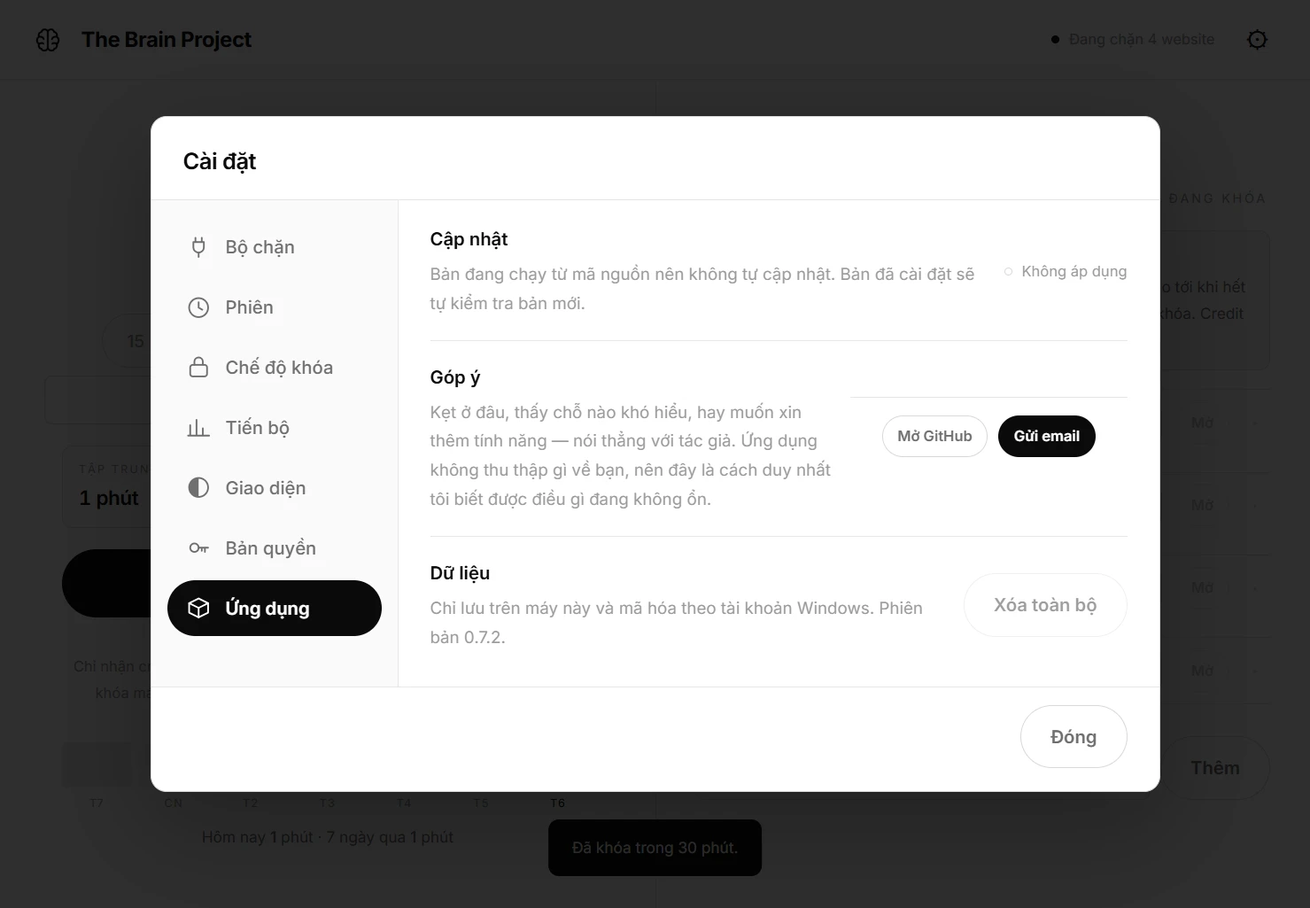
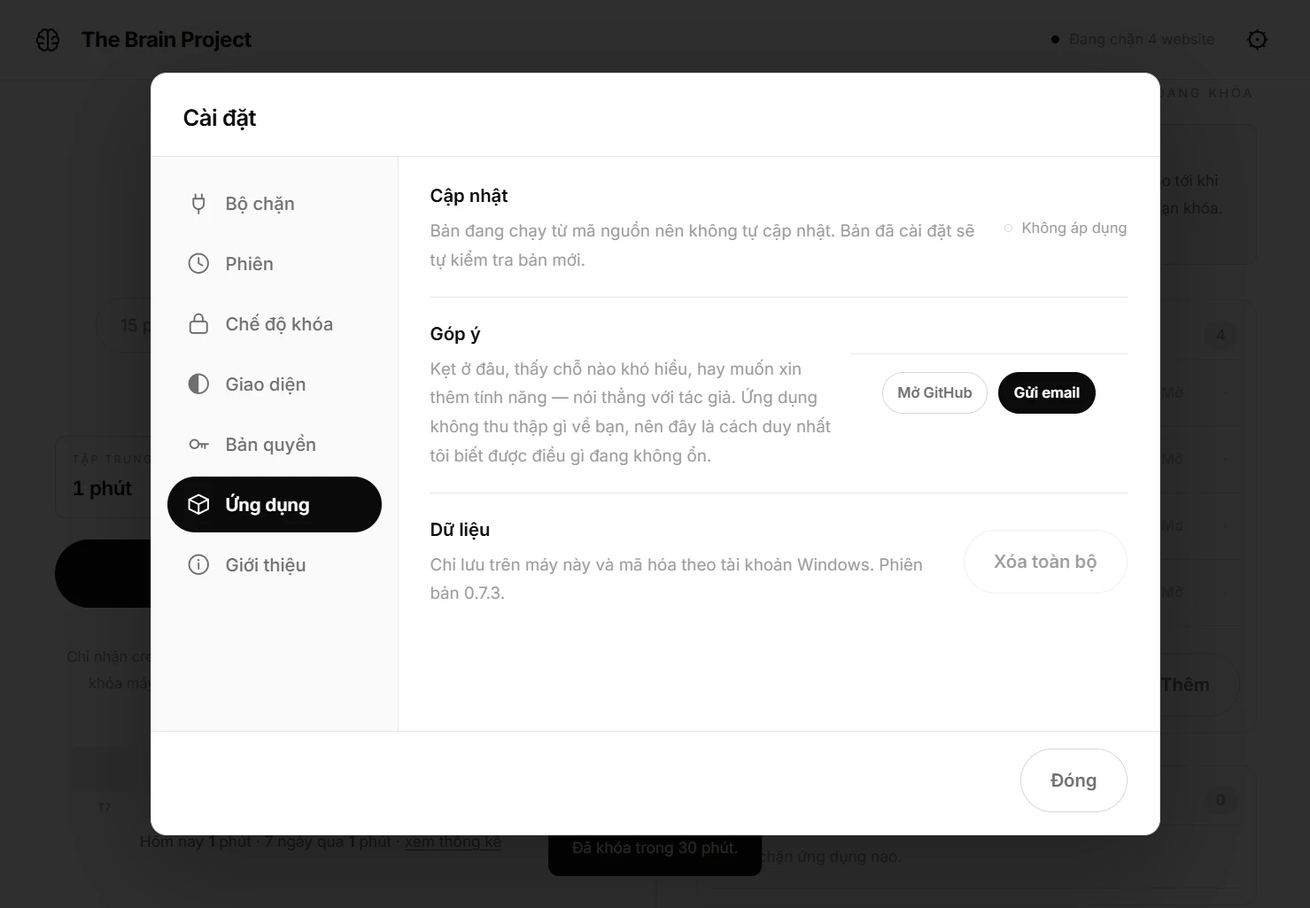
Sáu thay đổi giao diện và một sửa lỗi thật khi thêm website
Dán link đầy đủ vào ô chặn trước đây BÁO LỖI. targetAdd chỉ bóc "https://",
"www." và dấu gạch cuối, nên "github.com/ai-do/repo" không qua được biểu
thức kiểm tra và người dùng nhận thông báo "không nhập đường dẫn" — trong
khi dán link thật mới là điều người ta làm nhiều nhất. Thêm hostOf(): bóc
cả giao thức, user:pass@, cổng, đường dẫn, tham số và neo. Giữ nguyên tên
miền con vì cắt "m." thành "facebook.com" là đoán ý, mà đoán sai thì chặn
nhầm một trang khác — và tiện ích vốn đã chặn cả tên miền con.

Cài đặt giữ nguyên kích thước khi chuyển tab: trước dùng max-height nên
mỗi tab một chiều cao, cửa sổ nhảy mỗi lần bấm. Nay khoá height, đã đo
qua cả bảy tab đều 574x760.

Thống kê tách hẳn khỏi Cài đặt thành cửa sổ riêng, mở bằng cách bấm vào
dải bảy ngày trên màn hình chính — nó là thứ người ta xem thường xuyên,
không phải thứ chỉnh một lần rồi thôi. Có thêm sáu ô tổng hợp và bảng 30
ngày thay vì 14.

Ô nhập số phút bỏ hẳn nút tăng giảm mặc định của Windows và thu về dáng
viên thuốc như các chip cạnh nó.

Cột phải tách thành hai nhóm có khung và có đếm số: Website, và Ứng dụng
và game. Trước đây chặn ứng dụng chỉ là một dòng chữ gạch chân ở đáy cột,
trong khi đó là hai loại khác hẳn nhau — website do tiện ích chặn và sống
sót khi app tắt, ứng dụng thì cần app đang chạy.

Thêm tab Giới thiệu: bản đang chạy, tóm tắt quyền riêng tư, và Có gì mới.
src/ui/changelog.js sinh từ CHANGELOG.md, và tests/changelog.test.cjs đọc
[…]

diff --git a/src/ui/app.js b/src/ui/app.js
@@ -40,6 +40,10 @@ function ruleStrip(m){
 
 function readyView(){
   const idleMinutes=state.idleSeconds/60;
+  // Website và ứng dụng là hai loại khác nhau: một cái do tiện ích chặn và sống
+  // sót khi app tắt, một cái cần app đang chạy. Trộn chung một danh sách thì
+  // người dùng không thấy được ranh giới đó.
+  const sites=state.targets.filter(t=>t.domain), apps=state.targets.filter(t=>t.exe);
   return `<section class="pane left">
     ${state.system.extensionConnected?'':`<div class="warn"><b>Chưa chặn được website nào.</b> Tiện ích trình duyệt chưa kết nối, nên danh sách bên cạnh chưa có hiệu lực.<br>Nếu bạn vừa mở lại ứng dụng thì chỉ cần đợi vài giây — tiện ích tự kết nối lại, <b>không phải ghép nối lại</b>. Mã ghép nối không đổi. <button class="link" id="warn-setup">Kiểm tra kết nối</button></div>`}
     <div class="stack"><div class="label">Số dư</div><div class="figure">${num(state.credits)}</div><div class="unit">credit</div></div>
@@ -54,20 +58,30 @@ function readyView(){
     ${ruleStrip(minutes)}
     <button class="primary big" data-action="start">Bắt đầu tập trung<b id="start-label">${minutes} phút</b></button>
     <p class="note">Chỉ nhận credit khi hoàn tất trọn phiên. Dừng giữa chừng, đóng ứng dụng, khóa máy hoặc rời máy quá ${idleMinutes} phút thì mất toàn bộ credit của phiên.</p>`}
-    <div class="week">
+    <button class="week" id="open-stats" aria-label="Xem thống kê đầy đủ">
       <div class="week-bars">${(()=>{const days=lastDays(7),peak=Math.max(25,...days.map(d=>d.minutes));
         return days.map(d=>`<div class="week-day ${d.today?'now':''}" title="${d.day}: ${d.minutes} phút">
           <div class="week-track"><i style="height:${d.minutes?Math.max(6,Math.round(d.minutes/peak*100)):0}%"></i></div>
           <span>${d.label}</span></div>`).join('');})()}</div>
-      <p class="today">Hôm nay <b>${state.todayMinutes}</b> phút · 7 ngày qua <b>${lastDays(7).reduce((n,d)=>n+d.minutes,0)}</b> phút</p>
-    </div>
+      <p class="today">Hôm nay <b>${state.todayMinutes}</b> phút · 7 ngày qua <b>${lastDays(7).reduce((n,d)=>n+d.minutes,0)}</b> phút · <span class="week-more">xem thống kê</span></p>
+    </button>
   </section>
   <section class="pane right">
     <div class="sites-head"><span>Đang bị chặn</span><span>${locked()?'Đang khóa':'Đổi credit để mở tạm'}</span></div>
     ${locked()?`<div class="warn locked-note"><b>Chế độ khóa · còn <span id="lock-left">${hhmm(state.lockUntil-state.now)}</span></b><br>Không đổi được credit và không bỏ chặn được website nào cho tới khi hết giờ. Tắt ứng dụng cũng không mở khóa — tiện ích tự giữ hạn khóa. Credit bạn kiếm trong lúc này vẫn được cộng.</div>`:''}
-    ${state.targets.map(siteRow).join('')||'<div class="empty">Danh sách trống. Thêm một tên miền để bắt đầu.</div>'}
-    <form class="add" data-form="targetAdd"><input class="field" name="domain" maxlength="253" placeholder="thêm tên miền, ví dụ reddit.com" aria-label="Tên miền cần chặn" required><button class="ghost">Thêm</button></form>
-    ${state.appBlocking&&!locked()?'<button class="link add-app" id="add-app">＋ Chặn một ứng dụng đang mở</button>':''}
+
+    <div class="group">
+      <div class="group-head"><span>Website</span><span class="group-count">${sites.length}</span></div>
+      ${sites.map(siteRow).join('')||'<div class="empty">Chưa chặn website nào.</div>'}
+      <form class="add" data-form="targetAdd"><input class="field" name="domain" maxlength="2048" placeholder="dán link hoặc gõ tên miền" aria-label="Website cần chặn" required><button class="ghost">Thêm</button></form>
+    </div>
+
+    ${state.appBlocking?`
+    <div class="group">
+      <div class="group-head"><span>Ứng dụng và game</span><span class="group-count">${apps.length}</span></div>
+      ${apps.map(siteRow).join('')||'<div class="empty">Chưa chặn ứng dụng nào.</div>'}
+      ${locked()?'':'<button class="ghost add-app" id="add-app">Chọn từ ứng dụng đang mở</button>'}
+    </div>`:''}
   </section>`;
 }
 function siteRow(t){
@@ -202,6 +216,7 @@ const ICON={
   session:'<circle cx="12" cy="12" r="9"/><path d="M12 7v5l3.5 2"/>',
   lock:'<rect x="4" y="10" width="16" height="11" rx="2.5"/><path d="M8 10V7a4 4 0 0 1 8 0v3"/>',
   history:'<path d="M4 20V10M10 20V5M16 20v-7M22 20H2"/>',
+  about:'<circle cx="12" cy="12" r="9"/><path d="M12 11v5"/><circle cx="12" cy="7.8" r="0.9" fill="currentColor" stroke="none"/>',
   license:'<circle cx="8" cy="12" r="4"/><path d="M12 12h9M18 12v4M15 12v3"/>',
   app:'<path d="M12 3 3 7.5v9L12 21l9-4.5v-9z"/><path d="M3 7.5 12 12l9-4.5M12 12v9"/>',
 };
@@ -240,15 +255,53 @@ function tabLock(){
     ${locked()?'':`<div class="preset-edit">${state.lockPacks.map(m=>`<button class="ghost small" data-lock="${m}">${hhmm(m*60000)}</button>`).join('')}</div>`}</div>`;
 }
 
-function tabHistory(){
-  return `<div class="set-row col"><div><b>Tiến bộ</b><p>Lưu ${state.historyDays} ngày gần nhất. Chỉ đếm phiên hoàn tất trọn vẹn.</p></div>
-    <div class="ratio">${(()=>{const rows=state.history.filter(d=>d.minutes||d.interrupted).slice(0,14);
-      return '<div><span>Ngày</span><span>Tập trung · nhận được</span></div>'+(rows.length
-        ? rows.map(d=>`<div><span>${d.day.slice(8)}/${d.day.slice(5,7)}${d.day===state.history[0]?.day&&d.day===lastDays(1)[0].day?' · hôm nay':''}</span><span>${d.minutes} phút · ${num(d.earned)} credit${d.interrupted?` · ${d.interrupted} phiên dở`:''}</span></div>`).join('')
-        : '<div><span>Chưa có ngày nào</span><span>Hoàn tất một phiên để bắt đầu</span></div>');})()}</div></div>`;
+function tabLicense(){ return licenseView()+plansView(); }
+
+// Thống kê tách hẳn khỏi Cài đặt: nó là thứ người ta xem thường xuyên, không
+// phải thứ chỉnh một lần rồi thôi. Mở bằng cách bấm vào dải bảy ngày.
+function statsView(){
+  const rows=state.history.filter(d=>d.minutes||d.interrupted);
+  const tong=rows.reduce((a,d)=>({phut:a.phut+d.minutes,xong:a.xong+(d.completed||0),do_:a.do_+(d.interrupted||0),credit:a.credit+(d.earned||0)}),
+    {phut:0,xong:0,do_:0,credit:0});
+  const ngay=rows.length;
+  const tb=ngay?Math.round(tong.phut/ngay):0;
+  const dai=lastDays(7),dinh=Math.max(25,...dai.map(d=>d.minutes));
+  return `<div class="stat-grid">
+    <div><span class="label">Tổng thời gian</span><b>${tong.phut} phút</b></div>
+    <div><span class="label">Phiên hoàn tất</span><b>${tong.xong}</b></div>
+    <div><span class="label">Phiên bỏ dở</span><b>${tong.do_}</b></div>
+    <div><span class="label">Credit đã kiếm</span><b>${num(Number(tong.credit.toFixed(2)))}</b></div>
+    <div><span class="label">Số ngày tập trung</span><b>${ngay}</b></div>
+    <div><span class="label">Trung bình mỗi ngày</span><b>${tb} phút</b></div>
+  </div>
+  <div class="set-row col"><div><b>Bảy ngày gần nhất</b></div>
+    <div class="week-bars big">${dai.map(d=>`<div class="week-day ${d.today?'now':''}" title="${d.day}: ${d.minutes} phút">
+      <div class="week-track"><i style="height:${d.minutes?Math.max(6,Math.round(d.minutes/dinh*100)):0}%"></i></div>
+      <span>${d.label}</span></div>`).join('')}</div></div>
+  <div class="set-row col"><div><b>Theo ngày</b><p>Lưu ${state.historyDays} ngày gần nhất. Chỉ đếm phiên hoàn tất trọn vẹn.</p></div>
+    <div class="ratio">${'<div><span>Ngày</span><span>Tập trung · nhận được</span></div>'+(rows.length
+      ? rows.slice(0,30).map(d=>`<div><span>${d.day.slice(8)}/${d.day.slice(5,7)}${d.day===lastDays(1)[0].day?' · hôm nay':''}</span><span>${d.minutes} phút · ${num(d.earned)} credit${d.interrupted?` · ${d.interrupted} phiên dở`:''}</span></div>`).join('')
+      : '<div><span>Chưa có ngày nào</span><span>Hoàn tất một phiên để bắt đầu</span></div>')}</div></div>`;
 }
 
-function tabLicense(){ return licenseView()+plansView(); }
+// Giới thiệu, quyền riêng tư và lịch sử phiên bản — ba thứ người dùng cần để
+// hiểu họ đang chạy cái gì, thay vì phải lên website tìm.
+function tabAbout(){
+  const moi=CHANGELOG.slice(0,4);
+  return `<div class="set-row col"><div><b>The Brain Project ${esc(state.system.version)}</b>
+    <p>Một vòng lặp duy nhất: tập trung để kiếm credit, đổi credit để mở thứ gây nghiện.
+    Dự án cá nhân, không phải công ty. Mã nguồn công khai.</p></div>
+    <div class="actions start"><button class="ghost small" data-system="openSite">Trang giới thiệu</button><button class="ghost small" data-system="openRepo">Mã nguồn</button></div></div>
+
+  <div class="set-row col"><div><b>Quyền riêng tư</b>
+    <p>Không có máy chủ, không có tài khoản, không có bộ theo dõi. Dữ liệu nằm trên máy bạn và được mã hóa
+    theo tài khoản Windows. Tiện ích đọc địa chỉ tab để đối chiếu danh sách chặn, nhưng
+    <b>không lưu và không gửi đi đâu</b> — kể cả về ứng dụng này.</p></div>
+    <div class="actions start"><button class="ghost small" data-system="openPrivacy">Đọc chính sách đầy đủ</button></div></div>
+
+  <div class="set-row col"><div><b>Có gì mới</b><p>Bốn bản gần nhất.</p></div>
+    <div class="changelog">${moi.map(v=>`<div class="cl-ver"><b>${esc(v.v)}</b><ul>${v.items.map(i=>`<li>${i}</li>`).join('')}</ul></div>`).join('')}</div></div>`;
+}
 
 function tabApp(){
   return `${updateView()}
@@ -262,10 +315,10 @@ function setupTabs(){
     {id:'blocker', ten:'Bộ chặn',     view:tabBlocker},
     {id:'session', ten:'Phiên',       view:tabSession},
     {id:'lock',    ten:'Chế độ khóa', view:tabLock, an:!state.lockedMode},
-    {id:'history', ten:'Tiến bộ',     view:tabHistory},
     {id:'look',    ten:'Giao diện',   view:tabLook},
     {id:'license', ten:'Bản quyền',   view:tabLicense},
     {id:'app',     ten:'Ứng dụng',    view:tabApp},
+    {id:'about',   ten:'Giới thiệu',  view:tabAbout},
   ];
   return t.filter(x=>!x.an);
 }
@@ -294,6 +347,7 @@ function render(){
   $('#main').className=gate||state.session?'stage':'split';
   $('#main').innerHTML=gate?gateView():state.session?focusView():readyView();
   if($('#setup').open)$('#setup-body').innerHTML=setupView();
+  if($('#stats').open)$('#stats-body').innerHTML=statsView();
   lastSignature=signature(state);
   live();
 }
@@ -317,6 +371,8 @@ document.addEventListener('click',async e=>{
   const b=e.target.closest('button');if(!b)return;
   if(b.id==='open-setup'||b.id==='warn-setup'){$('#setup-body').innerHTML=setupView();$('#setup').showModal();return;}
   if(b.id==='setup-close'){$('#setup').close();return;}
+  if(b.id==='open-stats'){$('#stats-body').innerHTML=statsView();$('#stats').showModal();return;}
+  if(b.id==='stats-close'){$('#stats').close();return;}
   if(b.dataset.setupTab){setupTab=b.dataset.setupTab;$('#setup-body').innerHTML=setupView();$('.setup-panel').scrollTop=0;return;}
   if(b.id==='add-app'){pickApp();return;}
   if(b.dataset.exe){

diff --git a/src/ui/changelog.js b/src/ui/changelog.js
@@ -1,0 +1,40 @@
+// SINH TỰ ĐỘNG TỪ CHANGELOG.md — đừng sửa tay.
+// Ứng dụng cần lịch sử phiên bản để hiện trong mục Giới thiệu, nhưng nguồn sự
+// thật vẫn là CHANGELOG.md. tests/changelog.test.cjs đọc lại file gốc và báo đỏ
+// nếu hai nơi lệch nhau, nên không thể quên cập nhật chỗ này.
+const CHANGELOG=[
+  {v:"0.7.3", items:[
+    "<b>Cài đặt chia thành bảy mục, không phải cuộn dài nữa.</b> Thanh mục bên trái đứng yên — Bộ chặn, Phiên, Chế độ khóa, Tiến bộ, Giao diện, Bản quyền, Ứng dụng — và chỉ phần nội dung bên phải cuộn. Trước đây mọi thứ nằm chung một cột nên phải kéo rất sâu mới tới mục cuối.",
+    "<b>Chữ trong ứng dụng to và rõ hơn.</b> Cỡ chữ nền tăng, phần mô tả trong Cài đặt tăng nhiều nhất vì đó là chỗ khó đọc nhất.",
+    "<b>Logo, tên sản phẩm và nút ⚙ trên thanh đầu đều to hơn</b>, và nút ⚙ chuyển sang màu đen cho dễ thấy.",
+    "<b>Ứng dụng và tiện ích nay dùng chung phông chữ với website.</b> Trang chặn trong trình duyệt cũng chuyển sang đơn sắc như phần còn lại của sản phẩm, và có chế độ tối lần đầu."
+  ]},
+  {v:"0.7.2", items:[
+    "<b>Nút phản hồi ngay lúc bạn nhấn.</b> Trước đây nút chỉ đổi màu khi rê chuột, nhấn xuống thì không có gì xảy ra cho tới lúc nhả — nút có cảm giác chết. Nay nút co nhẹ ngay khi bạn nhấn.",
+    "<b>Tôn trọng thiết lập trợ năng của Windows.</b> Bật \"giảm chuyển động\" thì bỏ mọi hiệu ứng trượt và phóng, nhưng vẫn giữ mờ dần để bạn biết chuyện gì vừa xảy ra. Tắt \"hiệu ứng trong suốt\" thì nền hộp thoại đặc hơn. Bật \"tương phản cao\" thì viền dày và màu đậm hơn."
+  ]},
+  {v:"0.7.1", items:[
+    "<b>Có chỗ để góp ý.</b> Trong ⚙ giờ có mục <b>Góp ý</b> với hai nút: gửi email hoặc mở GitHub. Nút email điền sẵn phiên bản ứng dụng, phiên bản Windows và trạng thái kết nối tiện ích — ba thứ luôn phải hỏi tới hỏi lui mỗi lần báo lỗi. Bạn nhìn thấy toàn bộ nội dung trước khi bấm gửi; ứng dụng không tự gửi gì đi đâu cả."
+  ]},
+  {v:"0.7.0", items:[
+    "<b>Ứng dụng tự báo khi có bản mới.</b> Từ bản này trở đi, không phải tự vào website xem có gì mới nữa — ứng dụng tự kiểm tra và hiện trong ⚙. Bản mới <b>không tự tải về</b>: bạn bấm mới tải, để không tốn dung lượng mạng ngoài ý muốn.",
+    "<b>Không bao giờ cài đè giữa chừng.</b> Cài bản mới phải đóng ứng dụng, nên nó từ chối cài trong hai trường hợp: đang chạy phiên tập trung (đóng giữa phiên là mất hết credit đang tích lũy) và đang trong chế độ khóa (lúc ứng dụng tắt, phần chặn ứng dụng Windows sẽ ngừng hoạt động). Cũng không tự cài lén lúc bạn thoát ứng dụng.",
+    "<b>Xem ranh giới Free/Pro ngay trong ⚙.</b> Có bảng so sánh và ô nhập mã bản quyền. Hiện <b>chưa bán và chưa ai bị giới hạn gì</b> — mọi tính năng vẫn mở cho tất cả mọi người.",
+    "Mã bản quyền được lưu ở file riêng, nên <b>nút \"Xóa toàn bộ dữ liệu\" không làm mất bản quyền</b> bạn đã mua."
+  ]},
+  {v:"0.6.0", items:[
+    "<b>Mở được nhiều mục cùng lúc.</b> Trước đây chỉ mở được một thứ tại một thời điểm, nên chặn cả trình duyệt lẫn YouTube là rơi vào ngõ cụt: trả credit mở trình duyệt xong thì không mở nổi YouTube bên trong, mà màn hình đếm ngược cũng không cho đổi thêm. Nay mở trình duyệt rồi mở tiếp website bên trong bình thường, mỗi mục vẫn trả credit riêng.",
+    "<b>Màn hình đếm ngược không còn là ngõ cụt.</b> Khi đang có mục mở, giao diện vẫn giữ hai cột: bên trái liệt kê những mục đang mở kèm thời gian còn lại và nút kết thúc riêng từng mục, bên phải vẫn đổi credit được như thường."
+  ]},
+  {v:"0.5.3", items:[
+    "<b>Nút trên lớp phủ nay thật sự đóng ứng dụng bị chặn.</b> Trước đây bấm \"Quay lại làm việc\" thì lớp phủ biến mất nhưng ứng dụng vẫn dùng được thoải mái. Nay ứng dụng được yêu cầu thoát như khi bạn bấm dấu X, và nếu nó không chịu thoát thì lớp phủ quay lại sau vài giây. Nút được đổi tên thành <b>Đóng ứng dụng, quay lại làm việc</b> cho đúng việc nó làm."
+  ]},
+  {v:"0.5.2", items:[
+    "<b>Mở ứng dụng bằng credit ngay trên lớp phủ.</b> Nút mở hoạt động đúng, bấm lặp không trừ thêm credit; thiếu credit có thông báo tại chỗ. Lớp phủ không tự biến mất khi nhận focus và giữ nguyên thời lượng đang chọn.",
+    "<b>Hủy chọn ứng dụng không làm mất nút xác nhận.</b> Cả nút Quay lại và phím Escape đều dùng được; danh sách tải chậm không ghi đè hộp xác nhận tiếp theo.",
+    "<b>Đóng cửa sổ chính là thoát hẳn ứng dụng</b>, kể cả sau khi lớp phủ đã xuất hiện. Nếu đang tập trung, vẫn được chọn tiếp tục hoặc đóng và hủy phiên."
+  ]},
+  {v:"0.5.1", items:[
+    "<b>Sửa lỗi không mở được ứng dụng sau khi cập nhật.</b> Bản 0.5.0 báo \"Phiên bản dữ liệu không tương thích\" với người dùng đến từ 0.3.5 – 0.4.0. Dữ liệu không hề bị mất; ứng dụng chỉ từ chối mở. Cài bản này là vào được như cũ, giữ nguyên credit và mã ghép nối."
+  ]}
+];

diff --git a/src/ui/style.css b/src/ui/style.css
@@ -155,7 +155,7 @@ select.field{cursor:pointer}
 .add{display:flex;gap:8px;padding-top:12px}
 .locked-note{max-width:none;text-align:left;margin-bottom:2px}
 .locked-x{color:var(--line-2);text-align:center;width:19px;display:inline-block}
-.add-app{margin:2px auto 0;display:block}
+
 .app-pick{display:flex;flex-direction:column;gap:6px;max-height:46vh;overflow-y:auto;margin-top:4px}
 .app-option{justify-content:flex-start;text-align:left;flex-direction:column;align-items:flex-start;gap:2px;padding:9px 12px}
 .app-option b{font-size:12px;font-weight:600;color:var(--ink)}
@@ -190,7 +190,7 @@ dialog p{font-size:12px;line-height:1.8;color:var(--ink-2);margin:0}
 
 /* Bảng cài đặt: tiêu đề và nút Đóng đứng yên, chỉ phần giữa cuộn. */
 /* display phải gắn với [open], nếu không nó ghi đè dialog:not([open]){display:none} của trình duyệt. */
-#setup{padding:0;overflow:hidden;width:min(760px,94vw);max-height:min(86vh,680px)}
+#setup{padding:0;overflow:hidden;width:min(760px,94vw);height:min(84vh,640px)}
 #setup[open]{display:flex;flex-direction:column}
 #setup h2{flex:none;margin:0;padding:19px 24px 15px;border-bottom:1px solid var(--line)}
 #setup-body{flex:1 1 auto;min-height:0;overflow-y:auto;padding:2px 24px 4px;overscroll-behavior:contain}
@@ -205,7 +205,14 @@ dialog p{font-size:12px;line-height:1.8;color:var(--ink-2);margin:0}
 .preset-chip{display:inline-flex;align-items:center;gap:3px;border:1px solid var(--line-2);border-radius:6px;padding:6px 6px 6px 11px;font-size:11.5px;font-variant-numeric:tabular-nums}
 .preset-chip .x{font-size:14px;padding:0 3px}
 .preset-add{display:flex;gap:7px;align-items:center}
-.preset-add .narrow{width:74px}
+.preset-add .narrow{width:82px}
+/* Nút tăng/giảm mặc định của Windows to, xám và không theo chủ đề — bỏ đi,
+   người dùng gõ số hoặc dùng phím mũi tên. */
+input[type=number]{-moz-appearance:textfield;appearance:textfield}
+input[type=number]::-webkit-outer-spin-button,
+input[type=number]::-webkit-inner-spin-button{-webkit-appearance:none;margin:0}
+/* Ô "Khác" trên màn hình chính: cùng dáng viên thuốc với các chip cạnh nó. */
+#custom{width:92px;border-radius:999px;text-align:center;padding:9px 14px;font-size:13px;font-weight:500}
 .preset-note{font-size:10.5px;color:var(--muted)}
 .set-row p{font-size:12.5px;color:var(--muted);margin-top:5px;line-height:1.75}
 .set-row button,.set-row .chip{white-space:nowrap}
@@ -297,3 +304,55 @@ dialog p{font-size:12px;line-height:1.8;color:var(--ink-2);margin:0}
   .setup-rail button span{display:none}
   .setup-panel{padding:4px 16px 10px}
 }
+
+/* ── Hai nhóm mục bị chặn ───────────────────────────────────
+   Website do tiện ích chặn và sống sót khi app tắt; ứng dụng thì cần app đang
+   chạy. Trộn chung một danh sách thì người dùng không thấy được ranh giới đó. */
+.group{border:1px solid var(--line);border-radius:12px;padding:6px 12px 12px;margin-top:12px}
+.group:first-of-type{margin-top:4px}
+.group-head{
+  display:flex;align-items:center;justify-content:space-between;gap:10px;
+  padding:9px 2px 7px;font-size:11.5px;letter-spacing:.1em;text-transform:uppercase;
+  color:var(--muted);font-weight:600
+}
+.group-count{
+  font-size:11px;letter-spacing:0;color:var(--muted);background:var(--shade);
+  border-radius:999px;padding:2px 9px;font-variant-numeric:tabular-nums
+}
+.group .empty{padding:14px 2px;text-align:left}
+.group .add{margin-top:8px}
+.add-app{width:100%;margin-top:8px;justify-content:center}
+
+/* ── Dải bảy ngày bấm được để mở Thống kê ───────────────────
+   Thống kê là thứ người ta xem thường xuyên, không phải thứ chỉnh một lần rồi
+   thôi — nên nó tách khỏi Cài đặt và mở thẳng từ màn hình chính. */
+button.week{
+  background:none;border:1px solid transparent;border-radius:12px;
+  width:100%;max-width:400px;padding:10px 12px 8px;text-align:center;
+  display:flex;flex-direction:column;gap:9px
+}
+button.week:hover{border-color:var(--line-2);background:var(--raise)}
+button.week:not(:disabled):active{transform:none}
+.week-more{text-decoration:underline;text-underline-offset:2px}
+
+#stats{padding:0;overflow:hidden;width:min(640px,94vw);height:min(80vh,600px)}
+#stats[open]{display:flex;flex-direction:column}
+#stats h2{flex:none;margin:0;padding:19px 24px 15px;border-bottom:1px solid var(--line)}
+#stats-body{flex:1 1 auto;min-height:0;overflow-y:auto;overscroll-behavior:contain;padding:6px 24px 10px}
+#stats .actions{flex:none;margin:0;padding:13px 24px 17px;border-top:1px solid var(--line)}
+
+.stat-grid{display:grid;grid-template-columns:repeat(auto-fit,minmax(168px,1fr));gap:1px;
+  background:var(--line);border:1px solid var(--line);border-radius:10px;overflow:hidden;margin:14px 0 4px}
+/* space-between đẩy con số xuống đáy ô: nhãn dài xuống hai dòng thì con số của
+   ô đó vẫn thẳng hàng với các ô bên cạnh, thay vì tụt thấp hơn. */
+.stat-grid>div{background:var(--bg);padding:13px 15px;display:flex;flex-direction:column;
+  justify-content:space-between;gap:6px;min-height:78px}
+.stat-grid b{font-size:20px;font-weight:700;letter-spacing:-.02em;font-variant-numeric:tabular-nums}
+.week-bars.big .week-track{height:56px}
+
+/* ── Có gì mới ──────────────────────────────────────────── */
+.changelog{display:flex;flex-direction:column;gap:14px;margin-top:4px}
+.cl-ver>b{font-size:13px;letter-spacing:-.01em}
+.cl-ver ul{margin:6px 0 0;padding-left:18px}
+.cl-ver li{font-size:12.5px;color:var(--muted);line-height:1.75;margin-bottom:5px}
+.cl-ver li b{color:var(--ink);font-weight:600}

diff --git a/src/ui/index.html b/src/ui/index.html
@@ -19,9 +19,13 @@
     <h2 id="confirm-title"></h2><p id="confirm-text"></p>
     <div class="actions"><button id="confirm-no" class="ghost">Quay lại</button><button id="confirm-yes" class="primary">Xác nhận</button></div>
   </dialog>
+  <dialog id="stats">
+    <h2>Thống kê</h2><div id="stats-body"></div>
+    <div class="actions"><button id="stats-close" class="ghost">Đóng</button></div>
+  </dialog>
   <dialog id="setup">
     <h2>Cài đặt</h2><div id="setup-body"></div>
     <div class="actions"><button id="setup-close" class="ghost">Đóng</button></div>
   </dialog>
-  <script src="app.js"></script>
+  <script src="changelog.js"></script><script src="app.js"></script>
 </body></html>
